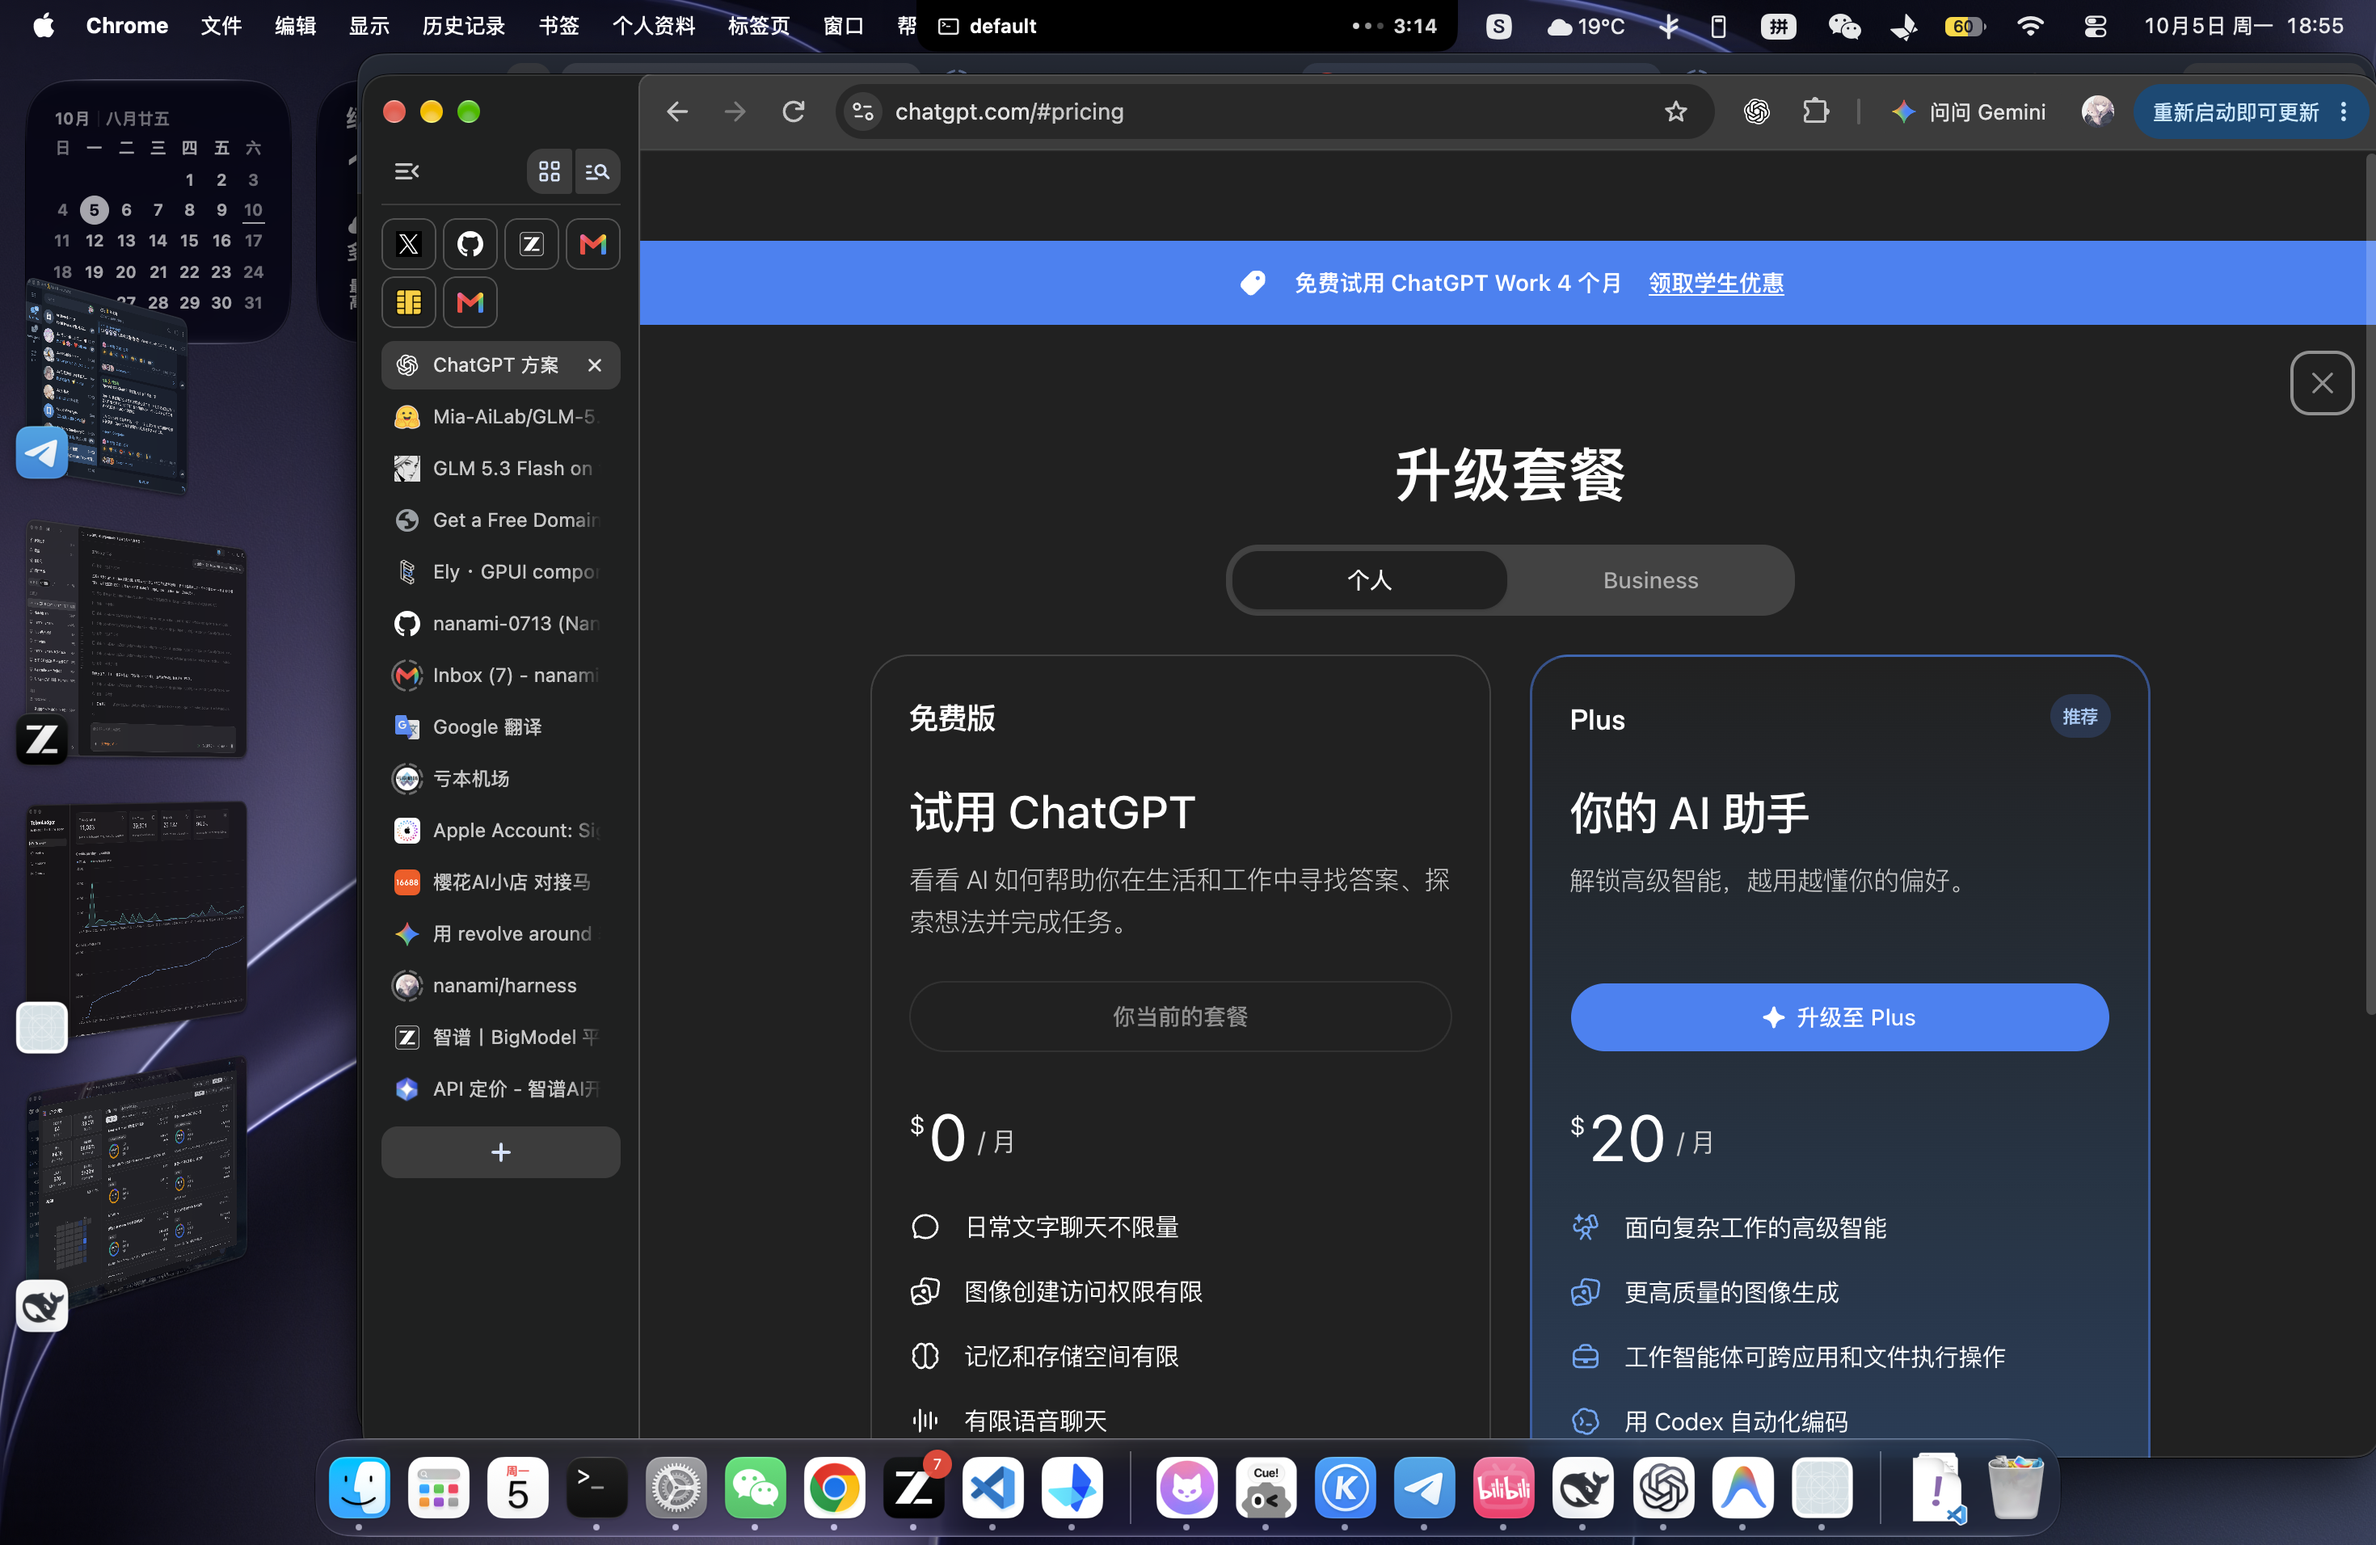
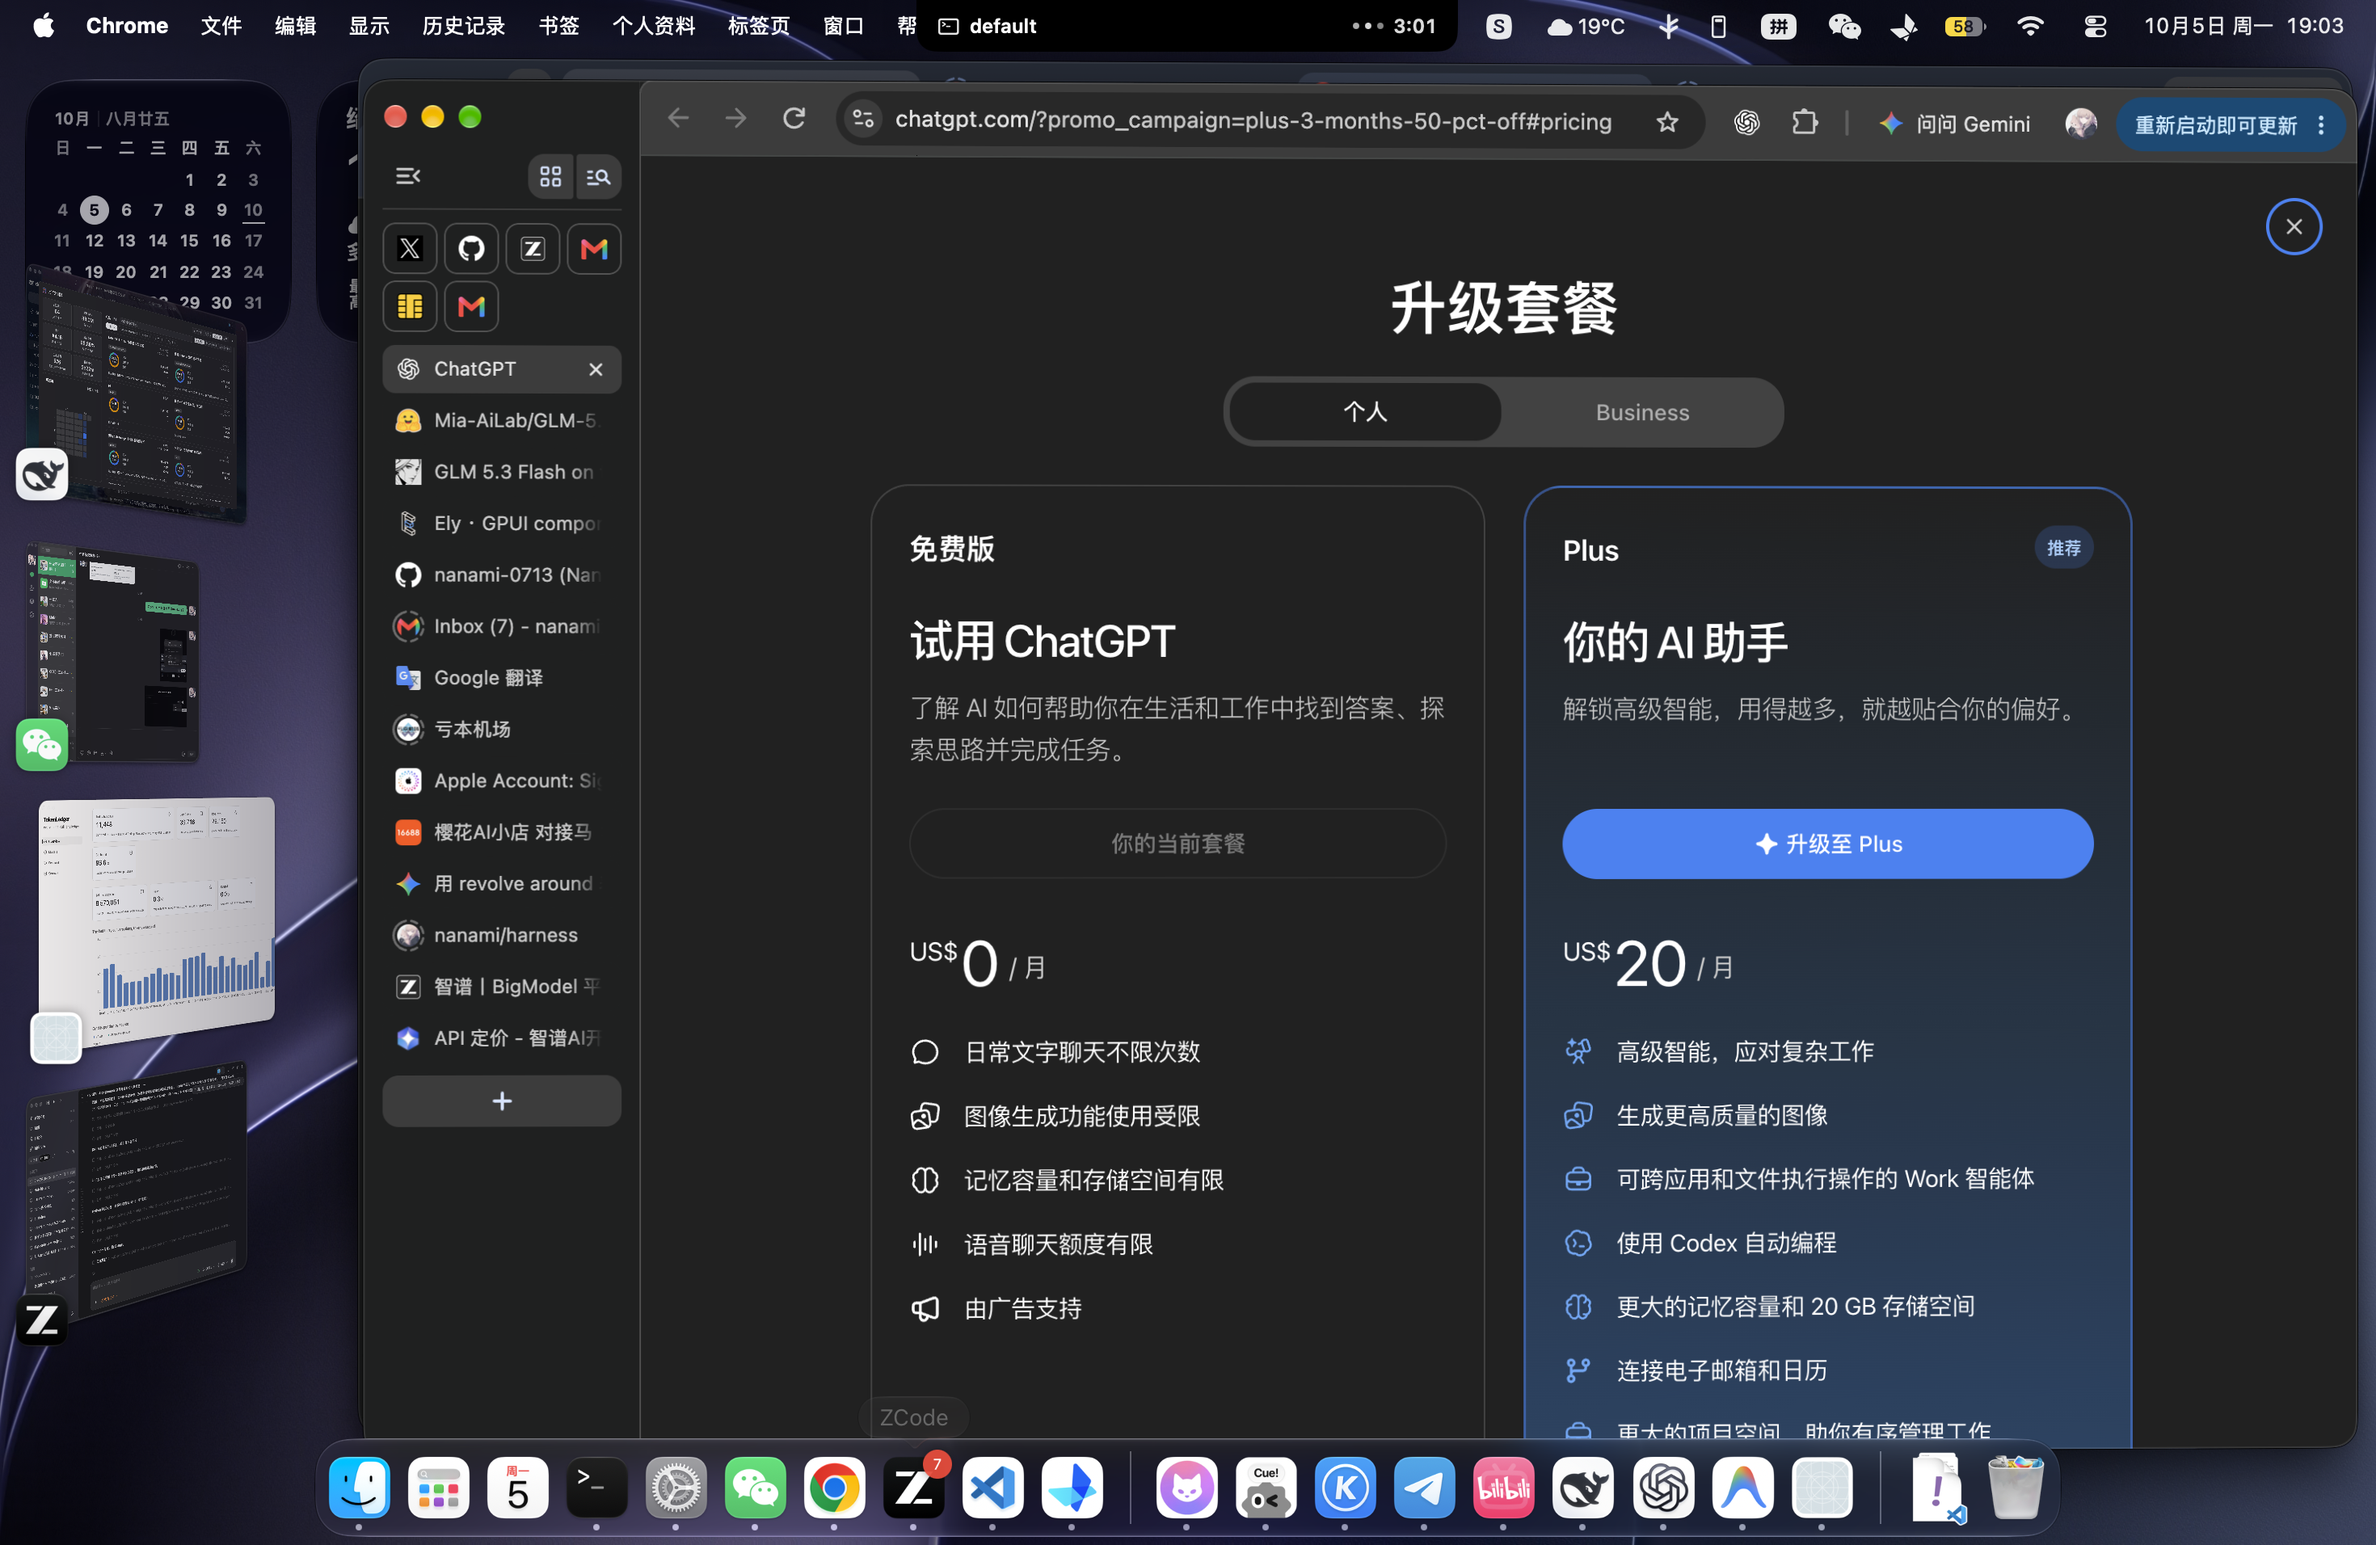
units: tokens primary, money from price cards primary, plan credits demoted to GLM-only auxiliary view

diff --git a/src/ui/overview.rs b/src/ui/overview.rs
@@ -24,26 +24,32 @@ pub fn render(app: &mut LedgerApp, _window: &mut Window, cx: &mut Context<Ledger
                 .gap_4()
                 .child(
                     KpiCard::new(
-                        Statistic::new("kpi-today", "Today (credits)", ledger.today_credits)
+                        Statistic::new("kpi-today", "Today · tokens", ledger.today_tokens)
                             .decimals(0),
                     )
                     .icon(ely_gpui_component::primitives::IconName::Zap)
-                    .caption("plan credits today — the GLM Coding Plan quota unit, every GUI together"),
+                    .caption("every model call today, every GUI together"),
                 )
                 .child(
                     KpiCard::new(
-                        Statistic::new("kpi-week", "Last 7 days", ledger.week_credits).decimals(0),
+                        Statistic::new("kpi-week", "Last 7 days · tokens", ledger.week_tokens)
+                            .decimals(0),
                     )
                     .icon(ely_gpui_component::primitives::IconName::Calendar)
                     .caption("one window, all sources"),
                 )
                 .child(
                     KpiCard::new(
-                        Statistic::new("kpi-requests", "Requests", ledger.totals.requests as f64)
-                            .decimals(0),
+                        Statistic::new(
+                            "kpi-cost",
+                            "API list price",
+                            ledger.totals.cost_cny.unwrap_or(0.0),
+                        )
+                        .decimals(0)
+                        .prefix("¥"),
                     )
-                    .icon(ely_gpui_component::primitives::IconName::Activity)
-                    .caption("model calls on this machine"),
+                    .icon(ely_gpui_component::primitives::IconName::Wallet)
+                    .caption("tokens × per-model price cards, priced models only"),
                 )
                 .child(
                     KpiCard::new(
@@ -60,6 +66,18 @@ pub fn render(app: &mut LedgerApp, _window: &mut Window, cx: &mut Context<Ledger
                 .flex()
                 .flex_wrap()
                 .gap_4()
+                .child(
+                    KpiCard::new(
+                        Statistic::new(
+                            "kpi-credits",
+                            "Plan credits today",
+                            ledger.today_credits,
+                        )
+                        .decimals(0),
+                    )
+                    .icon(ely_gpui_component::primitives::IconName::Gauge)
+                    .caption("GLM Coding Plan only — one provider's quota unit, an auxiliary view"),
+                )
                 .child(
                     KpiCard::new(
                         Statistic::new(
@@ -112,29 +130,29 @@ pub fn render(app: &mut LedgerApp, _window: &mut Window, cx: &mut Context<Ledger
             ),
         ))
         .child(section(
-            "Credits per day, by source",
+            "Tokens per day, by source",
             theme.colors.fg_muted,
             div().w(px(980.)).child(by_source_chart(ledger)),
         ))
         .child(section(
-            "Cumulative credits",
+            "Cumulative tokens",
             theme.colors.fg_muted,
             div().w(px(980.)).child(
                 LineChart::new("cumulative", ledger.days.clone())
                     .series(Series::new("all sources", ledger.cumulative.clone()))
-                    .format(|value| format!("{value:.0}")),
+                    .format(|value| human_f64(value)),
             ),
         ))
         .child(section(
-            "A year of credits, a tile a day",
+            "A year of tokens, a tile a day",
             theme.colors.fg_muted,
             div().w(px(980.)).child(
                 CalendarHeatmap::new("calendar", ledger.calendar.0, ledger.calendar.1.clone())
-                    .format(|value| format!("{value:.0} credits")),
+                    .format(|value| format!("{} tokens", human_f64(value))),
             ),
         ))
         .child(section(
-            "When the credits burn: the last two weeks, hour by hour",
+            "When the tokens burn: the last two weeks, hour by hour",
             theme.colors.fg_muted,
             div().w(px(980.)).child(hourly_chart(ledger)),
         ))
@@ -194,7 +212,7 @@ fn by_source_chart(ledger: &crate::core::aggregate::Ledger) -> impl IntoElement 
             }
         }
     }
-    chart.stacked().format(|value| format!("{value:.0}"))
+    chart.stacked().format(|value| human_f64(value))
 }
 
 /// Fourteen rows, one a day, twenty-four columns, one an hour: when the
@@ -207,7 +225,7 @@ fn hourly_chart(ledger: &crate::core::aggregate::Ledger) -> impl IntoElement {
         let label = day.strip_prefix("20").unwrap_or(day).to_string();
         chart = chart.row(label, row.iter().copied());
     }
-    chart.format(|value| format!("{value:.0} credits"))
+    chart.format(|value| human_f64(value))
 }
 
 fn section(title: &str, muted: gpui::Hsla, chart: gpui::Div) -> impl IntoElement {
@@ -223,6 +241,18 @@ fn section(title: &str, muted: gpui::Hsla, chart: gpui::Div) -> impl IntoElement
                 .child(title.to_string()),
         )
         .child(chart)
+}
+
+fn human_f64(value: f64) -> String {
+    if value >= 1e9 {
+        format!("{value:.2}B")
+    } else if value >= 1e6 {
+        format!("{value:.1}M")
+    } else if value >= 1e3 {
+        format!("{value:.0}k")
+    } else {
+        format!("{value:.0}")
+    }
 }
 
 fn pct(part: u64, whole: u64) -> f64 {

diff --git a/src/core/aggregate.rs b/src/core/aggregate.rs
@@ -147,6 +147,10 @@ pub struct ModelRow {
 #[derive(Debug, Clone, Default)]
 pub struct Ledger {
     pub totals: Totals,
+    /// Tokens are the ledger's primary unit; money converted from them by
+    /// price card follows, and plan credits stay an auxiliary view.
+    pub today_tokens: f64,
+    pub week_tokens: f64,
     pub today_credits: f64,
     pub week_credits: f64,
     pub days: Vec<String>,
@@ -180,18 +184,25 @@ impl Ledger {
         let today = jiff::Zoned::now().strftime("%Y-%m-%d").to_string();
         let today_ms = jiff::Zoned::now().timestamp().as_millisecond();
         let (mut today_credits, mut week_credits) = (0.0, 0.0);
+        let (mut today_tokens, mut week_tokens) = (0.0, 0.0);
+        let tokens_of = |rec: &UsageRecord| {
+            (rec.input_net + rec.cache_read + rec.output) as f64
+        };
         for rec in records {
             totals.add(rec, billing);
             let credits = billing.credits.credits(rec);
+            let tokens = tokens_of(rec);
             if day_of(rec.ts_ms) == today {
                 today_credits += credits;
+                today_tokens += tokens;
             }
             if today_ms - rec.ts_ms <= 7 * 24 * 3600 * 1000 {
                 week_credits += credits;
+                week_tokens += tokens;
             }
         }
-        let source_daily = Daily::build(records, |rec| rec.source.clone(), "credits", billing);
-        let model_daily = Daily::build(records, |rec| rec.model_key.clone(), "credits", billing);
+        let source_daily = Daily::build(records, |rec| rec.source.clone(), "tokens", billing);
+        let model_daily = Daily::build(records, |rec| rec.model_key.clone(), "tokens", billing);
         let mut cumulative = vec![0.0; source_daily.days.len()];
         for column in source_daily.series.values() {
             for (ix, value) in column.iter().enumerate() {
@@ -273,7 +284,7 @@ impl Ledger {
             if let Some(row) = hourly.get_mut(&day) {
                 if let Ok(zoned) = jiff::Timestamp::from_millisecond(rec.ts_ms) {
                     let hour = zoned.to_zoned(zone.clone()).hour() as usize;
-                    row[hour] += billing.credits.credits(rec);
+                    row[hour] += tokens_of(rec);
                 }
             }
         }
@@ -312,6 +323,8 @@ impl Ledger {
         sessions.truncate(200);
         Self {
             totals,
+            today_tokens,
+            week_tokens,
             today_credits,
             week_credits,
             days: source_daily.days,

diff --git a/src/ui/models.rs b/src/ui/models.rs
@@ -16,7 +16,17 @@ pub fn render(app: &mut LedgerApp, _window: &mut Window, cx: &mut Context<Ledger
             ledger.by_model.get(&row.model).cloned().unwrap_or_default(),
         ));
     }
-    chart = chart.stacked().format(|value| format!("{value:.0}"));
+    chart = chart.stacked().format(|value| {
+        if value >= 1e9 {
+            format!("{value:.2}B")
+        } else if value >= 1e6 {
+            format!("{value:.1}M")
+        } else if value >= 1e3 {
+            format!("{value:.0}k")
+        } else {
+            format!("{value:.0}")
+        }
+    });
     let table_rows: Vec<Row> = ledger
         .models_rows
         .iter()
@@ -29,11 +39,11 @@ pub fn render(app: &mut LedgerApp, _window: &mut Window, cx: &mut Context<Ledger
                     Cell::Text(row.sources.join(" + ").into()),
                     Cell::Number(row.totals.requests as f64),
                     Cell::Number(tokens as f64),
-                    Cell::Number(row.totals.credits),
                     match row.totals.cost_cny {
                         Some(cny) => Cell::Number(cny),
                         None => Cell::from(""),
                     },
+                    Cell::Number(row.totals.credits),
                     Cell::Number(row.totals.cache_hit_rate().unwrap_or(0.0) * 100.0),
                 ],
             )
@@ -50,7 +60,7 @@ pub fn render(app: &mut LedgerApp, _window: &mut Window, cx: &mut Context<Ledger
                 .text_size(gpui::rems(0.9))
                 .font_weight(gpui::FontWeight::SEMIBOLD)
                 .text_color(theme.colors.fg_muted)
-                .child("Top models by credits per day"),
+                .child("Top models by tokens per day"),
         )
         .child(div().w(px(980.)).child(chart))
         .child(div().w(px(980.)).child(
@@ -61,8 +71,8 @@ pub fn render(app: &mut LedgerApp, _window: &mut Window, cx: &mut Context<Ledger
                     Column::new("sources", "Sources").width(rems(14.)),
                     Column::new("requests", "Requests").width(rems(8.)).end(),
                     Column::new("tokens", "Tokens").width(rems(10.)).end(),
+                    Column::new("cost", "¥ list").width(rems(9.)).end(),
                     Column::new("credits", "Credits").width(rems(9.)).end(),
-                    Column::new("cost", "\u{a5} list").width(rems(9.)).end(),
                     Column::new("hit", "Cache %").width(rems(8.)).end(),
                 ],
             )

diff --git a/src/ui/sessions.rs b/src/ui/sessions.rs
@@ -31,11 +31,11 @@ pub fn render(app: &mut LedgerApp, _window: &mut Window, cx: &mut Context<Ledger
                     Cell::Text(session.models.join(", ").into()),
                     Cell::Number(session.totals.requests as f64),
                     Cell::Number(tokens as f64),
-                    Cell::Number(session.totals.credits),
                     match session.totals.cost_cny {
                         Some(cny) => Cell::Number(cny),
                         None => Cell::from(""),
                     },
+                    Cell::Number(session.totals.credits),
                     match session.tps() {
                         Some(tps) => Cell::Number(tps),
                         None => Cell::from(""),
@@ -70,8 +70,8 @@ pub fn render(app: &mut LedgerApp, _window: &mut Window, cx: &mut Context<Ledger
                     Column::new("models", "Models").width(rems(16.)),
                     Column::new("requests", "Req").width(rems(6.)).end(),
                     Column::new("tokens", "Tokens").width(rems(10.)).end(),
+                    Column::new("cost", "¥ list").width(rems(9.)).end(),
                     Column::new("credits", "Credits").width(rems(9.)).end(),
-                    Column::new("cost", "\u{a5} list").width(rems(9.)).end(),
                     Column::new("tps", "Tok/s").width(rems(7.)).end(),
                     Column::new("first", "First seen").width(rems(10.)),
                 ],
